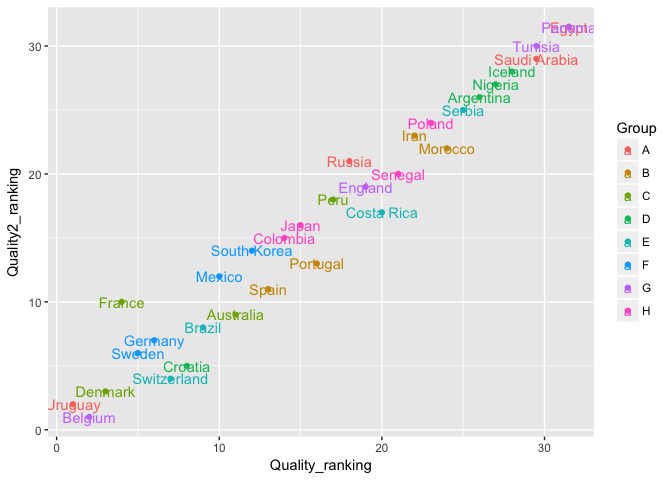
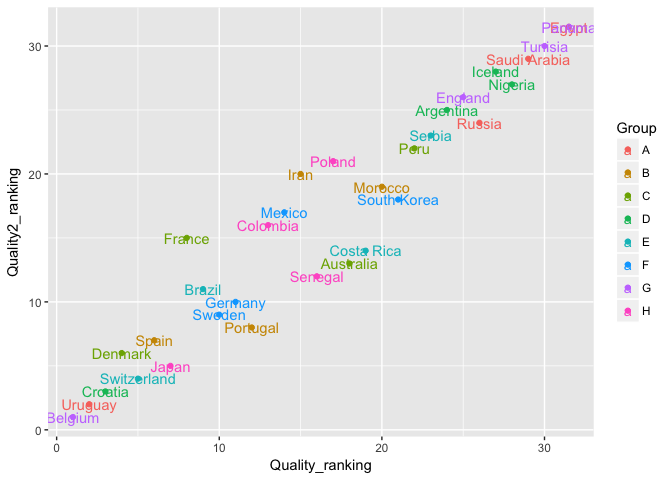
Updated analyses to be unaffected by new data format, updated README.

diff --git a/Analysis/PageRank.md b/Analysis/PageRank.md
@@ -50,6 +50,7 @@ matches_df <- read_csv("../Data/World_cup_2018_matches.csv",
 
 # select relevant rows
 df <- matches_df %>%
+    filter(Stage %in% c("Group-1", "Group-2", "Group-3")) %>%
     select(Home:Away_goals)
 
 df <- df %>% 
@@ -95,36 +96,36 @@ country_df %>% arrange(Quality_ranking) %>%
 
 | Country      |  World\_ranking|  Tournament\_ranking| Group |  Group\_score|  Group\_ranking| Last16 | QFinals |    Quality|  Quality\_ranking|
 |:-------------|---------------:|--------------------:|:------|-------------:|---------------:|:-------|:--------|----------:|-----------------:|
-| Uruguay      |              14|                   13| A     |             9|               1| Y      | Y       |  0.1627587|               1.0|
-| Belgium      |               3|                    3| G     |             9|               1| Y      | Y       |  0.1584335|               2.0|
-| Denmark      |              12|                   11| C     |             5|               2| Y      | N       |  0.0926358|               3.0|
-| France       |               7|                    7| C     |             7|               1| Y      | Y       |  0.0508431|               4.0|
-| Sweden       |              24|                   20| F     |             6|               1| Y      | Y       |  0.0468559|               5.0|
-| Germany      |               1|                    1| F     |             3|               4| N      | N       |  0.0445150|               6.0|
-| Switzerland  |               6|                    6| E     |             5|               2| Y      | N       |  0.0419743|               7.0|
-| Croatia      |              20|                   16| D     |             9|               1| Y      | Y       |  0.0388360|               8.0|
-| Brazil       |               2|                    2| E     |             7|               1| Y      | Y       |  0.0364884|               9.0|
-| Mexico       |              15|                   14| F     |             6|               2| Y      | N       |  0.0336391|              10.0|
-| Australia    |              36|                   23| C     |             1|               4| N      | N       |  0.0309343|              11.0|
-| South Korea  |              57|                   29| F     |             3|               3| N      | N       |  0.0236064|              12.0|
-| Spain        |              10|                    9| B     |             5|               1| Y      | N       |  0.0212962|              13.0|
-| Colombia     |              16|                   15| H     |             6|               1| Y      | N       |  0.0211763|              14.0|
-| Japan        |              61|                   30| H     |             4|               2| Y      | N       |  0.0203976|              15.0|
-| Portugal     |               4|                    4| B     |             5|               2| Y      | N       |  0.0177993|              16.0|
-| Peru         |              11|                   10| C     |             3|               3| N      | N       |  0.0152052|              17.0|
-| Russia       |              70|                   32| A     |             6|               2| Y      | Y       |  0.0146062|              18.0|
-| England      |              13|                   12| G     |             6|               2| Y      | Y       |  0.0145722|              19.0|
-| Costa Rica   |              23|                   19| E     |             1|               4| N      | N       |  0.0136070|              20.0|
-| Senegal      |              27|                   21| H     |             4|               3| N      | N       |  0.0130947|              21.0|
-| Iran         |              37|                   24| B     |             4|               3| N      | N       |  0.0121151|              22.0|
-| Poland       |               8|                    8| H     |             3|               4| N      | N       |  0.0116227|              23.0|
-| Morocco      |              41|                   25| B     |             1|               4| N      | N       |  0.0107214|              24.0|
-| Serbia       |              34|                   22| E     |             3|               3| N      | N       |  0.0093139|              25.0|
-| Argentina    |               5|                    5| D     |             4|               2| Y      | N       |  0.0086145|              26.0|
-| Nigeria      |              48|                   27| D     |             3|               3| N      | N       |  0.0067792|              27.0|
-| Iceland      |              22|                   18| D     |             1|               4| N      | N       |  0.0061520|              28.0|
-| Tunisia      |              21|                   17| G     |             3|               3| N      | N       |  0.0060156|              29.5|
-| Saudi Arabia |              67|                   31| A     |             3|               3| N      | N       |  0.0060156|              29.5|
+| Belgium      |               3|                    3| G     |             9|               1| Y      | Y       |  0.1057246|               1.0|
+| Uruguay      |              14|                   13| A     |             9|               1| Y      | Y       |  0.1057246|               2.0|
+| Croatia      |              20|                   16| D     |             9|               1| Y      | Y       |  0.1016811|               3.0|
+| Denmark      |              12|                   11| C     |             5|               2| Y      | N       |  0.0477549|               4.0|
+| Switzerland  |               6|                    6| E     |             5|               2| Y      | N       |  0.0477549|               5.0|
+| Spain        |              10|                    9| B     |             5|               1| Y      | N       |  0.0394658|               6.0|
+| Japan        |              61|                   30| H     |             4|               2| Y      | N       |  0.0392468|               7.0|
+| France       |               7|                    7| C     |             7|               1| Y      | Y       |  0.0390799|               8.0|
+| Brazil       |               2|                    2| E     |             7|               1| Y      | Y       |  0.0390799|               9.0|
+| Sweden       |              24|                   20| F     |             6|               1| Y      | Y       |  0.0381926|              10.0|
+| Germany      |               1|                    1| F     |             3|               4| N      | N       |  0.0371512|              11.0|
+| Portugal     |               4|                    4| B     |             5|               2| Y      | N       |  0.0365542|              12.0|
+| Colombia     |              16|                   15| H     |             6|               1| Y      | N       |  0.0315742|              13.0|
+| Mexico       |              15|                   14| F     |             6|               2| Y      | N       |  0.0291794|              14.0|
+| Iran         |              37|                   24| B     |             4|               3| N      | N       |  0.0275196|              15.0|
+| Senegal      |              27|                   21| H     |             4|               3| N      | N       |  0.0272516|              16.0|
+| Poland       |               8|                    8| H     |             3|               4| N      | N       |  0.0269274|              17.0|
+| Australia    |              36|                   23| C     |             1|               4| N      | N       |  0.0249833|              18.0|
+| Costa Rica   |              23|                   19| E     |             1|               4| N      | N       |  0.0249833|              19.0|
+| Morocco      |              41|                   25| B     |             1|               4| N      | N       |  0.0214604|              20.0|
+| South Korea  |              57|                   29| F     |             3|               3| N      | N       |  0.0204768|              21.0|
+| Peru         |              11|                   10| C     |             3|               3| N      | N       |  0.0131818|              22.0|
+| Serbia       |              34|                   22| E     |             3|               3| N      | N       |  0.0131818|              23.0|
+| Argentina    |               5|                    5| D     |             4|               2| Y      | N       |  0.0089516|              24.0|
+| England      |              13|                   12| G     |             6|               2| Y      | Y       |  0.0085723|              25.0|
+| Russia       |              70|                   32| A     |             6|               2| Y      | Y       |  0.0085723|              26.0|
+| Iceland      |              22|                   18| D     |             1|               4| N      | N       |  0.0072238|              27.0|
+| Nigeria      |              48|                   27| D     |             3|               3| N      | N       |  0.0071436|              28.0|
+| Saudi Arabia |              67|                   31| A     |             3|               3| N      | N       |  0.0060156|              29.0|
+| Tunisia      |              21|                   17| G     |             3|               3| N      | N       |  0.0060156|              30.0|
 | Egypt        |              45|                   26| A     |             0|               4| N      | N       |  0.0046875|              31.5|
 | Panama       |              55|                   28| G     |             0|               4| N      | N       |  0.0046875|              31.5|
 
@@ -174,36 +175,36 @@ country_df %>% arrange(Quality2_ranking) %>%
 
 | Country      |  World\_ranking|  Tournament\_ranking| Group |  Group\_score|  Group\_ranking| Last16 | QFinals |    Quality|  Quality\_ranking|   Quality2|  Quality2\_ranking|
 |:-------------|---------------:|--------------------:|:------|-------------:|---------------:|:-------|:--------|----------:|-----------------:|----------:|------------------:|
-| Belgium      |               3|                    3| G     |             9|               1| Y      | Y       |  0.1584335|               2.0|  0.1485112|                1.0|
-| Uruguay      |              14|                   13| A     |             9|               1| Y      | Y       |  0.1627587|               1.0|  0.1409662|                2.0|
-| Denmark      |              12|                   11| C     |             5|               2| Y      | N       |  0.0926358|               3.0|  0.0903520|                3.0|
-| Switzerland  |               6|                    6| E     |             5|               2| Y      | N       |  0.0419743|               7.0|  0.0474017|                4.0|
-| Croatia      |              20|                   16| D     |             9|               1| Y      | Y       |  0.0388360|               8.0|  0.0467230|                5.0|
-| Sweden       |              24|                   20| F     |             6|               1| Y      | Y       |  0.0468559|               5.0|  0.0402777|                6.0|
-| Germany      |               1|                    1| F     |             3|               4| N      | N       |  0.0445150|               6.0|  0.0389236|                7.0|
-| Brazil       |               2|                    2| E     |             7|               1| Y      | Y       |  0.0364884|               9.0|  0.0379554|                8.0|
-| Australia    |              36|                   23| C     |             1|               4| N      | N       |  0.0309343|              11.0|  0.0376015|                9.0|
-| France       |               7|                    7| C     |             7|               1| Y      | Y       |  0.0508431|               4.0|  0.0341961|               10.0|
-| Spain        |              10|                    9| B     |             5|               1| Y      | N       |  0.0212962|              13.0|  0.0310445|               11.0|
-| Mexico       |              15|                   14| F     |             6|               2| Y      | N       |  0.0336391|              10.0|  0.0278748|               12.0|
-| Portugal     |               4|                    4| B     |             5|               2| Y      | N       |  0.0177993|              16.0|  0.0255807|               13.0|
-| South Korea  |              57|                   29| F     |             3|               3| N      | N       |  0.0236064|              12.0|  0.0253656|               14.0|
-| Colombia     |              16|                   15| H     |             6|               1| Y      | N       |  0.0211763|              14.0|  0.0236098|               15.0|
-| Japan        |              61|                   30| H     |             4|               2| Y      | N       |  0.0203976|              15.0|  0.0233800|               16.0|
-| Costa Rica   |              23|                   19| E     |             1|               4| N      | N       |  0.0136070|              20.0|  0.0230018|               17.0|
-| Peru         |              11|                   10| C     |             3|               3| N      | N       |  0.0152052|              17.0|  0.0192153|               18.0|
-| England      |              13|                   12| G     |             6|               2| Y      | Y       |  0.0145722|              19.0|  0.0181492|               19.0|
-| Senegal      |              27|                   21| H     |             4|               3| N      | N       |  0.0130947|              21.0|  0.0162981|               20.0|
-| Russia       |              70|                   32| A     |             6|               2| Y      | Y       |  0.0146062|              18.0|  0.0156325|               21.0|
-| Morocco      |              41|                   25| B     |             1|               4| N      | N       |  0.0107214|              24.0|  0.0134835|               22.0|
-| Iran         |              37|                   24| B     |             4|               3| N      | N       |  0.0121151|              22.0|  0.0128310|               23.0|
-| Poland       |               8|                    8| H     |             3|               4| N      | N       |  0.0116227|              23.0|  0.0101074|               24.0|
-| Serbia       |              34|                   22| E     |             3|               3| N      | N       |  0.0093139|              25.0|  0.0091994|               25.0|
-| Argentina    |               5|                    5| D     |             4|               2| Y      | N       |  0.0086145|              26.0|  0.0084327|               26.0|
-| Nigeria      |              48|                   27| D     |             3|               3| N      | N       |  0.0067792|              27.0|  0.0071377|               27.0|
-| Iceland      |              22|                   18| D     |             1|               4| N      | N       |  0.0061520|              28.0|  0.0063416|               28.0|
-| Saudi Arabia |              67|                   31| A     |             3|               3| N      | N       |  0.0060156|              29.5|  0.0057741|               29.0|
-| Tunisia      |              21|                   17| G     |             3|               3| N      | N       |  0.0060156|              29.5|  0.0052567|               30.0|
+| Belgium      |               3|                    3| G     |             9|               1| Y      | Y       |  0.1057246|               1.0|  0.1069408|                1.0|
+| Uruguay      |              14|                   13| A     |             9|               1| Y      | Y       |  0.1057246|               2.0|  0.1041835|                2.0|
+| Croatia      |              20|                   16| D     |             9|               1| Y      | Y       |  0.1016811|               3.0|  0.1021379|                3.0|
+| Switzerland  |               6|                    6| E     |             5|               2| Y      | N       |  0.0477549|               5.0|  0.0483257|                4.0|
+| Japan        |              61|                   30| H     |             4|               2| Y      | N       |  0.0392468|               7.0|  0.0453669|                5.0|
+| Denmark      |              12|                   11| C     |             5|               2| Y      | N       |  0.0477549|               4.0|  0.0448225|                6.0|
+| Spain        |              10|                    9| B     |             5|               1| Y      | N       |  0.0394658|               6.0|  0.0447862|                7.0|
+| Portugal     |               4|                    4| B     |             5|               2| Y      | N       |  0.0365542|              12.0|  0.0400106|                8.0|
+| Sweden       |              24|                   20| F     |             6|               1| Y      | Y       |  0.0381926|              10.0|  0.0375858|                9.0|
+| Germany      |               1|                    1| F     |             3|               4| N      | N       |  0.0371512|              11.0|  0.0366354|               10.0|
+| Brazil       |               2|                    2| E     |             7|               1| Y      | Y       |  0.0390799|               9.0|  0.0356709|               11.0|
+| Senegal      |              27|                   21| H     |             4|               3| N      | N       |  0.0272516|              16.0|  0.0336715|               12.0|
+| Australia    |              36|                   23| C     |             1|               4| N      | N       |  0.0249833|              18.0|  0.0332619|               13.0|
+| Costa Rica   |              23|                   19| E     |             1|               4| N      | N       |  0.0249833|              19.0|  0.0303605|               14.0|
+| France       |               7|                    7| C     |             7|               1| Y      | Y       |  0.0390799|               8.0|  0.0293769|               15.0|
+| Colombia     |              16|                   15| H     |             6|               1| Y      | N       |  0.0315742|              13.0|  0.0268135|               16.0|
+| Mexico       |              15|                   14| F     |             6|               2| Y      | N       |  0.0291794|              14.0|  0.0266288|               17.0|
+| South Korea  |              57|                   29| F     |             3|               3| N      | N       |  0.0204768|              21.0|  0.0241501|               18.0|
+| Morocco      |              41|                   25| B     |             1|               4| N      | N       |  0.0214604|              20.0|  0.0205493|               19.0|
+| Iran         |              37|                   24| B     |             4|               3| N      | N       |  0.0275196|              15.0|  0.0196539|               20.0|
+| Poland       |               8|                    8| H     |             3|               4| N      | N       |  0.0269274|              17.0|  0.0191482|               21.0|
+| Peru         |              11|                   10| C     |             3|               3| N      | N       |  0.0131818|              22.0|  0.0175387|               22.0|
+| Serbia       |              34|                   22| E     |             3|               3| N      | N       |  0.0131818|              23.0|  0.0106428|               23.0|
+| Russia       |              70|                   32| A     |             6|               2| Y      | Y       |  0.0085723|              26.0|  0.0103549|               24.0|
+| Argentina    |               5|                    5| D     |             4|               2| Y      | N       |  0.0089516|              24.0|  0.0086264|               25.0|
+| England      |              13|                   12| G     |             6|               2| Y      | Y       |  0.0085723|              25.0|  0.0081150|               26.0|
+| Nigeria      |              48|                   27| D     |             3|               3| N      | N       |  0.0071436|              28.0|  0.0073485|               27.0|
+| Iceland      |              22|                   18| D     |             1|               4| N      | N       |  0.0072238|              27.0|  0.0068872|               28.0|
+| Saudi Arabia |              67|                   31| A     |             3|               3| N      | N       |  0.0060156|              29.0|  0.0057741|               29.0|
+| Tunisia      |              21|                   17| G     |             3|               3| N      | N       |  0.0060156|              30.0|  0.0052567|               30.0|
 | Egypt        |              45|                   26| A     |             0|               4| N      | N       |  0.0046875|              31.5|  0.0046875|               31.5|
 | Panama       |              55|                   28| G     |             0|               4| N      | N       |  0.0046875|              31.5|  0.0046875|               31.5|
 

diff --git a/Analysis/Possession.md b/Analysis/Possession.md
@@ -17,16 +17,18 @@ theme_update(plot.title = element_text(size = rel(1.5), face = "bold", hjust = 0
              axis.title = element_text(size = rel(1.2)))
 ```
 
-Match and goals data was compiled from Google answer boxes, which seems to take data from foxsports.com. Rankings are as of 2018-06-07, and were taken from <https://www.fifa.com/fifa-world-ranking/ranking-table/men/index.html>. Data is available at <https://github.com/kjytay/FIFA-world-cup-2018>.
+Match and goals data was compiled from Google answer boxes, which seems to take data from foxsports.com. Rankings are as of 2018-06-07, and were taken from <https://www.fifa.com/fifa-world-ranking/ranking-table/men/index.html>. Data is available at <https://github.com/kjytay/FIFA-world-cup-2018>. For this analysis, we only look at the group stage matches.
 
 Load data:
 
 ``` r
 country_df <- read_csv("../Data/World_cup_2018_country.csv")
 matches_df <- read_csv("../Data/World_cup_2018_matches.csv", 
-    col_types = cols(Date = col_date(format = "%Y-%m-%d")))
+    col_types = cols(Date = col_date(format = "%Y-%m-%d"))) %>%
+    filter(Stage %in% c("Group-1", "Group-2", "Group-3"))
 goals_df <- read_csv("../Data/World_cup_2018_goals.csv", 
-    col_types = cols(Date = col_date(format = "%Y-%m-%d")))
+    col_types = cols(Date = col_date(format = "%Y-%m-%d"))) %>%
+    filter(Stage %in% c("Group-1", "Group-2", "Group-3"))
 ```
 
 Preview of the 3 datasets:
@@ -95,14 +97,14 @@ matches_team_df$result <- ordered(matches_team_df$result, levels = c("Loss", "Dr
 Summary statistics
 ------------------
 
-Let's get a feel for how much possession a team has in a game. The maximum possession % a team had was 79% (Spain in Spain vs. Iran and Argentina in Argentina vs. Iceland). The mean possession % for teams that had majority of the possession in the game was 61.75%.
+Let's get a feel for how much possession a team has in a game. The maximum possession % a team had was 78% (Spain in Spain vs. Iran and Argentina in Argentina vs. Iceland). The mean possession % for teams that had majority of the possession in the game was 61.75%.
 
 ``` r
 sorted_possession <- sort(matches_team_df$possession)
 mean(sorted_possession[(nrow(matches_df) + 1):(2 * nrow(matches_df))])
 ```
 
-    ## [1] 61.71429
+    ## [1] 61.75
 
 Below is a histogram of possession % for all teams in all matches. As expected, the histogram is symmetric about 50%, since the 2 teams playing each other have possession adding up to 100%. Looking at just the teams with majority of the possession, the median percentage is 60.25%, indicated by the vertical red line.
 
@@ -136,16 +138,16 @@ matches_team_df %>%
     ## # A tibble: 10 x 2
     ##    country      mean_possession
     ##    <chr>                  <dbl>
-    ##  1 Spain                   74.8
+    ##  1 Spain                   73.3
     ##  2 Germany                 72.3
-    ##  3 Argentina               66  
-    ##  4 Saudi Arabia            60  
-    ##  5 Switzerland             59.8
-    ##  6 Brazil                  58.5
-    ##  7 Belgium                 55.8
-    ##  8 England                 55  
-    ##  9 Portugal                54.8
-    ## 10 Japan                   54
+    ##  3 Argentina               67.7
+    ##  4 Brazil                  62  
+    ##  5 Saudi Arabia            60  
+    ##  6 Japan                   58  
+    ##  7 Switzerland             57  
+    ##  8 England                 55.7
+    ##  9 France                  55.3
+    ## 10 Belgium                 55
 
 I was a little surprised to see Saudi Arabia in the top 5. It turns out that they had the lion's share of possession against Russia even though they lost 5-0. Out of these 10 countries, only Germany(2) and Saudi Arabia(5) did not advance to the knockout stages.
 
@@ -189,18 +191,18 @@ summary(lm(goals ~ possession, data = matches_team_df))
     ## 
     ## Residuals:
     ##     Min      1Q  Median      3Q     Max 
-    ## -1.4127 -1.1830 -0.2604  0.6555  4.6509 
+    ## -1.4545 -1.1446 -0.1981  0.6393  4.6527 
     ## 
     ## Coefficients:
     ##             Estimate Std. Error t value Pr(>|t|)  
-    ## (Intercept) 1.076132   0.412549   2.608   0.0104 *
-    ## possession  0.004549   0.007948   0.572   0.5683  
+    ## (Intercept) 0.888263   0.452710   1.962   0.0527 .
+    ## possession  0.007651   0.008725   0.877   0.3828  
     ## ---
     ## Signif. codes:  0 '***' 0.001 '**' 0.01 '*' 0.05 '.' 0.1 ' ' 1
     ## 
-    ## Residual standard error: 1.173 on 110 degrees of freedom
-    ## Multiple R-squared:  0.002969,   Adjusted R-squared:  -0.006095 
-    ## F-statistic: 0.3276 on 1 and 110 DF,  p-value: 0.5683
+    ## Residual standard error: 1.184 on 94 degrees of freedom
+    ## Multiple R-squared:  0.008114,   Adjusted R-squared:  -0.002438 
+    ## F-statistic: 0.769 on 1 and 94 DF,  p-value: 0.3828
 
 Below is a scatterplot of goals vs. possession. There is a clear positive correlation here, and the linear fit isn't too bad.
 
@@ -228,18 +230,18 @@ summary(lm(shots ~ possession, data = matches_team_df))
     ## 
     ## Residuals:
     ##      Min       1Q   Median       3Q      Max 
-    ## -10.8693  -2.7438  -0.3693   2.7797  10.6584 
+    ## -10.3646  -2.6414  -0.2521   1.9490  11.0302 
     ## 
     ## Coefficients:
     ##             Estimate Std. Error t value Pr(>|t|)    
-    ## (Intercept)  1.08227    1.49739   0.723    0.471    
-    ## possession   0.22978    0.02885   7.965 1.64e-12 ***
+    ## (Intercept)  1.30189    1.61057   0.808    0.421    
+    ## possession   0.21771    0.03104   7.014 3.53e-10 ***
     ## ---
     ## Signif. codes:  0 '***' 0.001 '**' 0.01 '*' 0.05 '.' 0.1 ' ' 1
     ## 
-    ## Residual standard error: 4.256 on 110 degrees of freedom
-    ## Multiple R-squared:  0.3658, Adjusted R-squared:   0.36 
-    ## F-statistic: 63.45 on 1 and 110 DF,  p-value: 1.639e-12
+    ## Residual standard error: 4.214 on 94 degrees of freedom
+    ## Multiple R-squared:  0.3435, Adjusted R-squared:  0.3365 
+    ## F-statistic: 49.19 on 1 and 94 DF,  p-value: 3.525e-10
 
 Let's look next at shots on goal vs. possession. There still is a positive correlation but the slope of the linear fit is markedly flatter. (*p*-value on the linear fit slope is still very small.)
 
@@ -265,18 +267,18 @@ summary(lm(shots_on_target ~ possession, data = matches_team_df))
     ## 
     ## Residuals:
     ##     Min      1Q  Median      3Q     Max 
-    ## -4.7191 -1.4691 -0.2531  1.0635  8.1470 
+    ## -4.5796 -1.5224 -0.2425  1.1381  8.2289 
     ## 
     ## Coefficients:
     ##             Estimate Std. Error t value Pr(>|t|)    
-    ## (Intercept)  0.58845    0.73013   0.806    0.422    
-    ## possession   0.06662    0.01407   4.736 6.53e-06 ***
+    ## (Intercept)  0.72393    0.77857   0.930    0.355    
+    ## possession   0.06219    0.01501   4.144 7.46e-05 ***
     ## ---
     ## Signif. codes:  0 '***' 0.001 '**' 0.01 '*' 0.05 '.' 0.1 ' ' 1
     ## 
-    ## Residual standard error: 2.075 on 110 degrees of freedom
-    ## Multiple R-squared:  0.1694, Adjusted R-squared:  0.1618 
-    ## F-statistic: 22.43 on 1 and 110 DF,  p-value: 6.532e-06
+    ## Residual standard error: 2.037 on 94 degrees of freedom
+    ## Multiple R-squared:  0.1545, Adjusted R-squared:  0.1455 
+    ## F-statistic: 17.17 on 1 and 94 DF,  p-value: 7.457e-05
 
 We conclude that having more possession usually means more shots and more shots on target. Can we say whether having more possession leads to better quality shots? More specifically, does having more possession lead to a higher percentage of shots being on target?
 
@@ -305,18 +307,18 @@ summary(lm(shots_on_target / shots ~ possession, data = matches_team_df))
     ## 
     ## Residuals:
     ##      Min       1Q   Median       3Q      Max 
-    ## -0.31420 -0.07943 -0.01047  0.07754  0.43796 
+    ## -0.31360 -0.08062 -0.00860  0.07635  0.43738 
     ## 
     ## Coefficients:
     ##               Estimate Std. Error t value Pr(>|t|)    
-    ## (Intercept)  0.3165823  0.0479900   6.597 1.52e-09 ***
-    ## possession  -0.0001082  0.0009245  -0.117    0.907    
+    ## (Intercept)  3.147e-01  5.213e-02   6.037  3.1e-08 ***
+    ## possession  -4.939e-05  1.005e-03  -0.049    0.961    
     ## ---
     ## Signif. codes:  0 '***' 0.001 '**' 0.01 '*' 0.05 '.' 0.1 ' ' 1
     ## 
-    ## Residual standard error: 0.1364 on 110 degrees of freedom
-    ## Multiple R-squared:  0.0001246,  Adjusted R-squared:  -0.008965 
-    ## F-statistic: 0.01371 on 1 and 110 DF,  p-value: 0.907
+    ## Residual standard error: 0.1364 on 94 degrees of freedom
+    ## Multiple R-squared:  2.572e-05,  Adjusted R-squared:  -0.01061 
+    ## F-statistic: 0.002417 on 1 and 94 DF,  p-value: 0.9609
 
 We can also see that somewhat from the plot below. If possession led to better quality shots, then the points at the bottom of the cluster would tend to be red while the points at the top would tend to be blue. We don't see that trend: rather, the points on the left tend to be red while the points on the right tend to be blue, regardless of height.
 

diff --git a/README.md b/README.md
@@ -1,7 +1,16 @@
 # FIFA-world-cup-2018  
 
-This repository contains FIFA World Cup 2018 data which I compiled from various websites.  
+This repository contains FIFA World Cup 2018 data which I compiled from various websites, as well as some analyses I have done.  
+
+## Data  
 
 - `World_cup_2018_country.csv`: Ranking data on the 32 countries which made it to Russia. Rankings are as of 2018-06-07, and were taken from `https://www.fifa.com/fifa-world-ranking/ranking-table/men/index.html`.  
 - `World_cup_2018_matches.csv`: Summary statistics for each match. Data taken from Google answer boxes, which seems to take data from `foxsports.com`.  
 - `World_cup_2018_goals.csv`: Each line in this dataset is a goal that was scored at World Cup 2018. Data taken from Google answer boxes, which seems to take data from `foxsports.com`.  
+
+## Analyses  
+
+- `Group_points`: A script which tabulates all possible point totals for a group, as well as the number of ways to obtain that point total.  
+- `PageRank`: An attempt to rank teams after the group stages using PageRank.  
+- `Possession`: An analysis on possession % for the group stages.  
+
